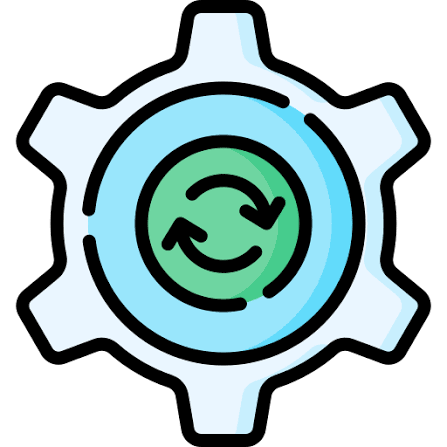
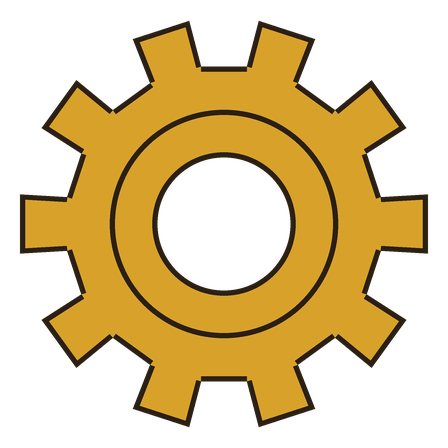
Значок обновления — шестерёнка на прозрачном фоне
Прежний был цветной картинкой с непрозрачной подложкой и выбивался из
оформления. Новый нарисован в палитре приложения: золото рамок и тёмный
контур, фон и отверстие в середине прозрачные.

Рисуется скриптом Source/Tools/make-update-icon.py вчетверо крупнее и
уменьшается — PIL не сглаживает многоугольники, и без этого зубцы выходят
рваными. Значок кладётся сразу в обе головы.

diff --git a/Source/Tools/make-update-icon.py b/Source/Tools/make-update-icon.py
@@ -1,0 +1,75 @@
+# Рисует значок обновления — шестерёнку на прозрачном фоне.
+#
+# Рисуем вчетверо крупнее и уменьшаем: PIL не сглаживает края многоугольников,
+# а без сглаживания зубцы выглядят рваными.
+#
+# Цвета — из палитры приложения: золото рамок и тёмный контур, чтобы значок
+# читался и на кожаной обложке игрового скина, и на светлом фоне классического.
+import math
+import os
+
+from PIL import Image, ImageDraw
+
+SIZE = 448
+SCALE = 4
+TEETH = 10
+
+GOLD = (216, 162, 42, 255)        # QuestGold
+OUTLINE = (42, 31, 18, 255)       # QuestInk
+
+OUT = [
+    r"C:\MY DOC\DEV\GIT\MyDayQuest\Source\MyDayQuest\Resources\Images\update.png",
+    r"C:\MY DOC\DEV\GIT\MyDayQuest\Source\MyDayQuest.Avalonia\Assets\update.png",
+]
+
+
+def gear_polygon(cx, cy, r_outer, r_inner, teeth, tooth_ratio=0.46):
+    """Контур шестерёнки: зубец — трапеция, впадина между ними такой же ширины."""
+    pts = []
+    step = 2 * math.pi / teeth
+    half = step * tooth_ratio / 2
+    flat = step * (1 - tooth_ratio) / 2
+    for i in range(teeth):
+        a = i * step
+        # впадина
+        pts.append((cx + r_inner * math.cos(a - flat), cy + r_inner * math.sin(a - flat)))
+        # подъём на зубец
+        pts.append((cx + r_outer * math.cos(a - half), cy + r_outer * math.sin(a - half)))
+        pts.append((cx + r_outer * math.cos(a + half), cy + r_outer * math.sin(a + half)))
+        # спуск
+        pts.append((cx + r_inner * math.cos(a + flat), cy + r_inner * math.sin(a + flat)))
+    return pts
+
+
+def main():
+    s = SIZE * SCALE
+    img = Image.new("RGBA", (s, s), (0, 0, 0, 0))
+    d = ImageDraw.Draw(img)
+
+    c = s / 2
+    r_outer = s * 0.46
+    r_inner = s * 0.355
+    stroke = max(2, int(s * 0.012))
+
+    d.polygon(gear_polygon(c, c, r_outer, r_inner, TEETH), fill=GOLD,
+              outline=OUTLINE, width=stroke)
+
+    # Отверстие: вырезаем насквозь, чтобы фон просвечивал.
+    hole = s * 0.16
+    d.ellipse([c - hole, c - hole, c + hole, c + hole], fill=(0, 0, 0, 0))
+    d.ellipse([c - hole, c - hole, c + hole, c + hole], outline=OUTLINE, width=stroke)
+
+    # Тонкое кольцо внутри — чтобы силуэт не выглядел плоским блином.
+    ring = s * 0.255
+    d.ellipse([c - ring, c - ring, c + ring, c + ring], outline=OUTLINE, width=stroke)
+
+    img = img.resize((SIZE, SIZE), Image.LANCZOS)
+
+    for path in OUT:
+        os.makedirs(os.path.dirname(path), exist_ok=True)
+        img.save(path)
+        print("записан:", path)
+
+
+if __name__ == "__main__":
+    main()
